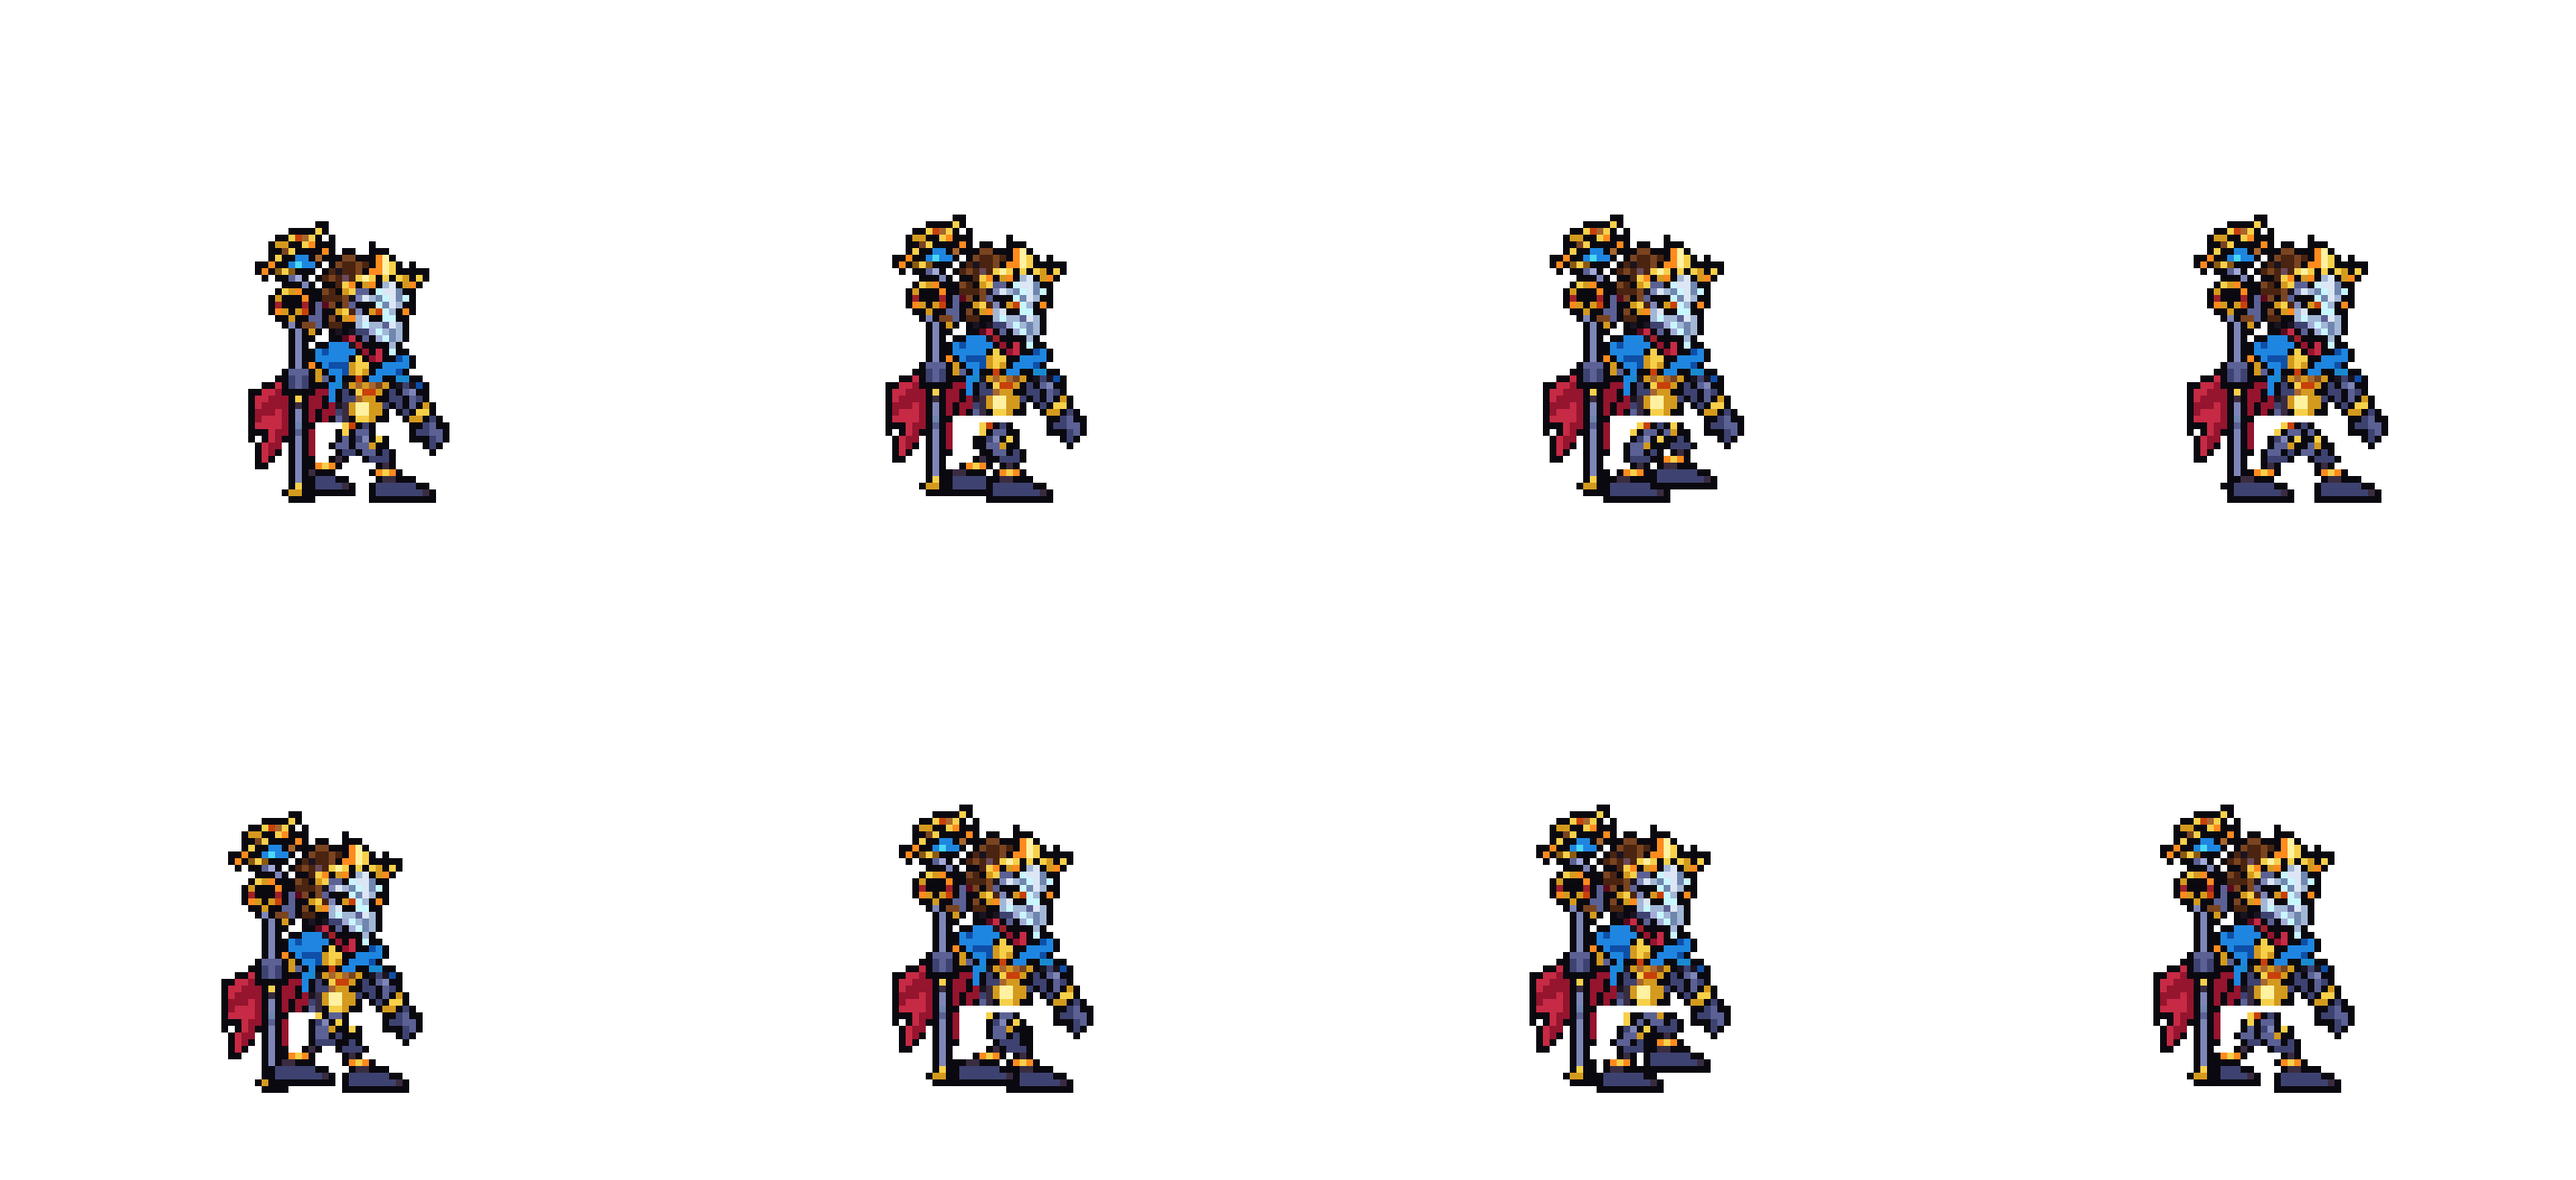
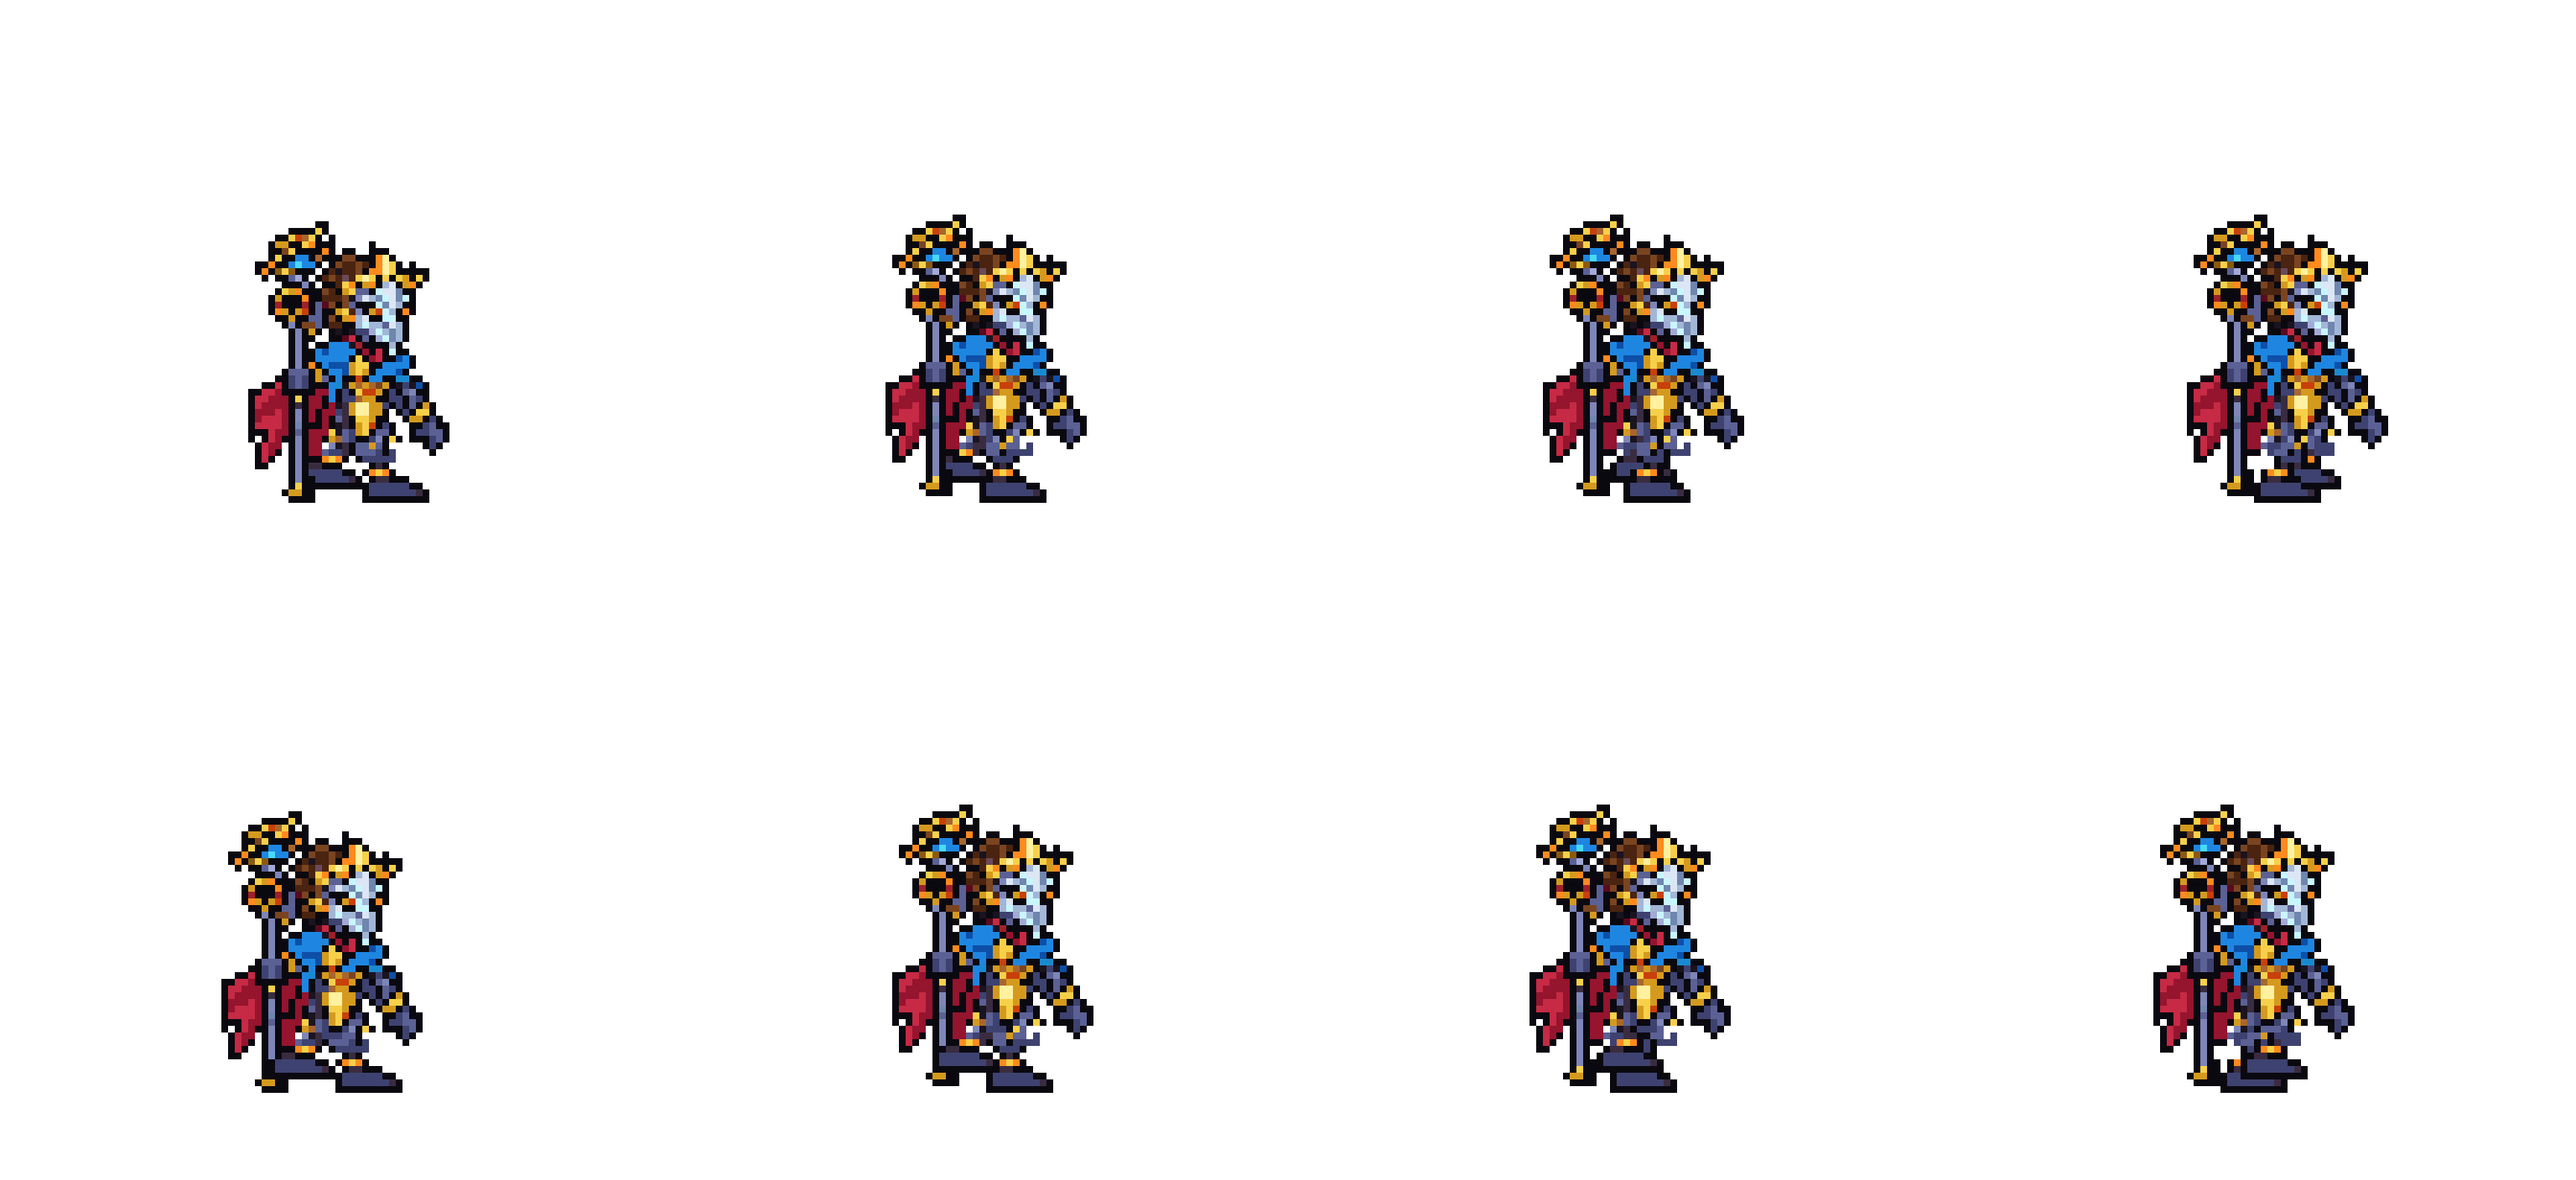
Viktor: his run on League's own walk, the pelvis and the cape's edge kept
Run v8's planted feet stood still under the body for a frame and then
jumped 6-7 columns back, and the two feet changed places inside one frame:
in game it read as a glide with no crossing step (「没有明显交叉步的感觉
感觉像是平滑」). tools/art/fix_viktor_run.py rebuilds the run from the
design with the same leg rig, each foot on League's run (pose_joints.py on
Run@0..933, both legs averaged, half a cycle apart): planted frames slide
back 2.3-2.5 columns each, the lifted foot goes up behind and steps over
the planted one. It also puts back the design's pelvis rows (a waist line
had opened in six frames) and the cape's inner edge by the staff, which
the leg parts' masks had cut out of every frame (「走2这里有点脱节吧」,
「还是老问题这里空出来了」). Only the run tag changes.

diff --git a/tools/art/fix_viktor_run.py b/tools/art/fix_viktor_run.py
@@ -1,0 +1,168 @@
+#!/usr/bin/env python3
+"""Viktor's run on League's own walk, the pelvis put back between the torso and the legs (the user, 2026-10-08:
+「我们现在这个走路感觉腿部是变形的啊」「你觉得修好了？？？你能好好看吗」「走2这里有点脱节吧 之前英雄出现过这问题」
+「没有明显交叉步的感觉 感觉像是平滑」).
+
+Run v8 (fix_viktor_strips.run_frames_codex) drew the design's near leg twice where Codex's walk had its feet. Read from
+the pivot, those feet stood still for a frame and then jumped 6-7 columns (the near one +7.3, +7.1, +4.6, -2.0, -4.6
+over its planted frames): the body walks on at one speed in game, so a planted foot that stops under it is carried
+along and then slips back - a glide; and the feet changed places within one frame (near - far +7.3 -> -7.3), so no
+frame showed a leg coming past the other. With both legs the same, frames 1 and 5 were one picture.
+
+The feet now follow League's run (tools/lol/pose_joints.py on the run tag's Run@0..933): each foot's centre (the mean
+of its Foot and Toe joints) from its own hip, the right and left legs averaged into one cycle (TRAJ), the far leg half
+a cycle after the near one - planted in frames 1-4 sliding back 2.3-2.5 columns a frame, lifted behind in 5-6, coming
+past the planted leg in 7, reaching in 8. LIFT keeps the lifted foot up through the pass (2, 3, 3, 2 rows), so it
+steps over the planted one; League kicks it higher behind (4-5 rows at this size), where the staff and the cape would
+hide it. Everything else is run v8's: the same leg drawn twice (bent2, the hips drawn in to HIP_X, the knee bend), the
+design's body bobbing as Codex's (upper_shift), the cells' pivots.
+
+The leg parts taken out of the body also took the cape's inner edge by the staff (the pivot's column -5, the six leg
+rows: outline, four dark reds, outline): the far leg's part reaches under it, and with the hips drawn in nothing
+covered it again, so every frame had a see-through slot between the staff and the body (the user, at frame 2:
+「走2这里有点脱节吧」, and again at frames 6-7: 「还是老问题这里空出来了」). That column stays in the body (CAPE), the
+near leg still drawn over it.
+
+Every run cell carries the design's rows 0-29 pixel for pixel (head to the torso's bottom), but not the design's
+pelvis armour - rows 30-32, the gold / orange plates and navy under the core: run v8 took the leg parts out of the
+body, and in six of its eight cells a transparent row opened between the torso and the legs, which complete_outline
+closed into a black line across the waist, each leg carrying its own scrap of gold plate like a stick pushed under
+the body. Each cell gets the design's own rows 30-32 back at its torso's own offset (only opaque design pixels are
+written), so the torso, the pelvis and the legs are one figure as in the idle.
+
+Under the pelvis the legs do not always meet it: a hidden far thigh left the pelvis's rear half over bare outline
+(the user: 「走2这里有点脱节吧」 - Kayn's and Rakan's runs). As there, the design's own thighs are underlaid in the
+three rows under the pelvis (design rows 33-35, leg colours only, the cape's red between the legs left out), only
+where the cell is empty or bare outline, so the run's legs stay in front and nothing opens between the belt and the
+legs.
+
+Rebuilds the run strip from the design (run after fix_viktor_strips.py):
+
+    python tools/art/fix_viktor_run.py
+"""
+import json
+import os
+import sys
+
+import numpy as np
+from PIL import Image
+
+HERE = os.path.dirname(os.path.abspath(__file__))
+ROOT = os.path.dirname(os.path.dirname(HERE))
+NATIVE = os.path.join(ROOT, "assets", "source", "native")
+sys.path.insert(0, HERE)
+import fix_viktor_strips as S  # noqa: E402
+
+Z = 8
+# League's run, frames 1-8: a foot's centre in columns from its hip (+ = forward) and the rows it is off the ground
+TRAJ = [5.0, 2.5, 0.2, -2.15, -4.45, -5.45, -2.1, 1.5]
+LIFT = [0, 0, 0, 0, 2, 3, 3, 2]
+HIP = 1               # both hips' column from the pivot, as HIP_X draws them in
+CAPE = (-5, 6)        # the cape's inner edge kept in the body: its column from the pivot, rows from the leg top
+TORSO = 30            # design rows 0..29 (from the design's top) are in every run cell as they are
+PELVIS = (30, 33)     # design rows 30..32: the pelvis armour put back
+BODY = (11, 24)       # design columns of the pelvis (from the design's left edge): right of the cape, left of the claw
+THIGHS = (33, 36)     # design rows under the pelvis: the design's thigh tops underlaid
+OUT = (0x0B, 0x09, 0x10)
+LEG = {(0x3E, 0x42, 0x70), (0x5B, 0x61, 0x94), (0x3A, 0x2C, 0x40), (0x7E, 0x86, 0xB8), (0x1A, 0x14, 0x20),
+       (0x6A, 0x4A, 0x5A), (0x6F, 0x86, 0xAE)}   # the legs' navies, greys and shadows (not the cape's red)
+
+
+def lp(path):
+    path = os.path.abspath(path)
+    pre = chr(92) * 2 + "?" + chr(92)
+    return pre + path if os.name == "nt" and not path.startswith(pre) else path
+
+
+def load(name):
+    return np.asarray(Image.open(lp(os.path.join(NATIVE, name))).convert("RGBA"))[Z // 2::Z, Z // 2::Z].copy()
+
+
+def feet():
+    """{side: [(foot centre from the pivot, rows lifted)] * 8}: the far leg half a cycle after the near one."""
+    near = [(HIP + TRAJ[k], LIFT[k]) for k in range(8)]
+    return {"near": near, "far": [near[(k + 4) % 8] for k in range(8)]}
+
+
+def run_frames(design, bob):
+    """The design's body over its near leg drawn twice (fix_viktor_strips.run_frames_codex), the feet from feet()."""
+    near, far = S.legs()
+    body = design.copy()
+    body[(near[..., 3] > 0) | (far[..., 3] > 0)] = 0
+    x, rows = S.PIVOT[0] + CAPE[0], slice(S.LEG_TOP, S.LEG_TOP + CAPE[1])
+    body[rows, x] = design[rows, x]
+    far = np.roll(near, S.FAR_FROM, axis=1)
+    at = feet()
+    out = []
+    for k in range(8):
+        leg = {side: (S.HIP_X[side], at[side][k][0] - S.FOOT_X[side], at[side][k][1],
+                      S.KNEE_BEND if at[side][k][1] else 0) for side in at}
+        c = S.bent2(far, *leg["far"])
+        b = np.roll(body, bob[k], axis=0)
+        m = b[..., 3] > 0
+        c[m] = b[m]
+        n = S.bent2(near, *leg["near"])
+        m = n[..., 3] > 0
+        c[m] = n[m]
+        out.append(c)
+    return out
+
+
+def seat(a, cells):
+    """The design's pelvis rows at each cell's torso offset, its thigh tops under them where the cell is bare."""
+    cw, ch = cells["cell"]
+    design = load("viktor_idle.png")[0:ch, 0:cw]
+    ys, xs = np.nonzero(design[..., 3])
+    top, left, right = int(ys.min()), int(xs.min()), int(xs.max())
+    torso = design[top:top + TORSO, left:right + 1]
+    colls = a.shape[1] // cw
+    for k in range(len(cells["tags"]["run"])):
+        cell = a[(k // colls) * ch:(k // colls) * ch + ch, (k % colls) * cw:(k % colls) * cw + cw]
+        hit = None                                   # the torso's own offset in this cell (an exact match)
+        for dy in range(-4, 4):
+            for dx in range(-10, 10):
+                y0, x0 = top + dy, left + dx
+                win = cell[y0:y0 + TORSO, x0:x0 + torso.shape[1]]
+                m = torso[..., 3] > 0
+                if win.shape == torso.shape and np.array_equal(win[m], torso[m]):
+                    hit = (dy, dx)
+                    break
+            if hit:
+                break
+        assert hit is not None, f"run cell {k + 1}: the design's torso is not in it"
+        dy, dx = hit
+        put = 0
+        for y in range(*PELVIS):
+            for x in range(left + BODY[0], left + BODY[1]):
+                if design[top + y, x, 3]:
+                    cell[top + y + dy, x + dx] = design[top + y, x]
+                    put += 1
+        under = 0
+        for y in range(*THIGHS):
+            for x in range(left + BODY[0], left + BODY[1]):
+                if design[top + y, x, 3] and tuple(int(v) for v in design[top + y, x, :3]) in LEG:
+                    Y, X = top + y + dy, x + dx
+                    if not cell[Y, X, 3] or tuple(int(v) for v in cell[Y, X, :3]) == OUT:
+                        cell[Y, X] = design[top + y, x]
+                        under += 1
+        print(f"run cell {k + 1}: torso at dy {dy} dx {dx}, pelvis {put} px, thighs underlaid {under} px")
+
+
+def main():
+    design = np.array(Image.open(S.D.lp(S.D.OUT)).convert("RGBA"))
+    with open(lp(os.path.join(NATIVE, "viktor_cells.json")), encoding="utf-8") as f:
+        cells = json.load(f)
+    with open(lp(S.RUN_MANIFEST), encoding="utf-8") as f:
+        bob = [fr["upper_shift"][1] for fr in json.load(f)["frames"]]
+    at = feet()
+    for k in range(8):
+        print(f"frame {k + 1}: near {at['near'][k][0]:+.2f} up {at['near'][k][1]}, far {at['far'][k][0]:+.2f} up "
+              f"{at['far'][k][1]}")
+    a = load("viktor_run.png")
+    S.place_run(a, cells, run_frames(design, bob))
+    seat(a, cells)
+    Image.fromarray(a).resize((a.shape[1] * Z, a.shape[0] * Z), Image.NEAREST).save(lp(os.path.join(NATIVE, "viktor_run.png")))
+
+
+if __name__ == "__main__":
+    main()
